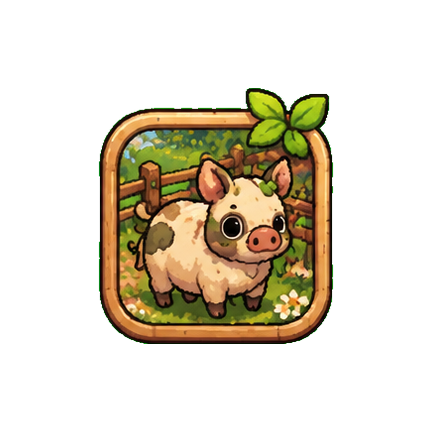
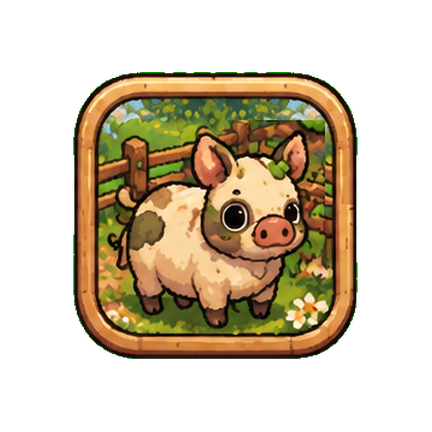
Ícone do app sem a folha: moldura quadrada ocupando o ícone inteiro
- O canto de cima à direita (onde a folha saía para fora) é refeito espelhando o canto esquerdo,
  só na moldura e na faixa de cima (a orelha do porquinho fica)
- Ícone adaptável: a moldura ocupa toda a área visível; no redondo, os cantos são cortados

Claude-Session: https://claude.ai/code/session_01K8smMkd41S9KsmfWVPtWCG

diff --git a/tools/import_app_icon.py b/tools/import_app_icon.py
@@ -20,7 +20,8 @@ from import_hud import key_flood  # noqa: E402
 ROOT = os.path.dirname(os.path.dirname(os.path.abspath(__file__)))
 SRC = os.path.join(ROOT, "assets", "source", "tractor_iso.png")
 OUT = os.path.join(ROOT, "assets", "app_icon")
-ICON = (1262, 12, 1520, 286)      # moldura inteira (com as folhinhas)
+FRAME = (1274, 43, 1510, 282)     # só a moldura (a folha que sai para fora fica de fora)
+CORNER = 110                      # tamanho do canto refeito
 INNER = (1299, 66, 1489, 258)     # a cena dentro da moldura (sem a borda)
 FACE = (1442, 166)                # centro do rosto do porquinho
 BG_COLOR = (104, 150, 66, 255)    # verde do fundo do ícone adaptável
@@ -28,8 +29,19 @@ BG_SIZE = 220                     # lado do recorte do fundo (o miolo visível f
 
 if __name__ == "__main__":
     full = key_flood(Image.open(SRC).convert("RGBA"))
-    icon = full.crop(ICON)
-    icon = icon.crop(icon.getbbox())
+    icon = full.crop(FRAME)
+    # sem a folha do canto de cima à direita: o canto é o espelho do canto de cima à esquerda
+    # (a moldura é simétrica), e a imagem fica quadradinha
+    w = icon.width
+    corner = icon.crop((0, 0, CORNER, CORNER)).transpose(Image.FLIP_LEFT_RIGHT)
+    cp, ip = corner.load(), icon.load()
+    for y in range(CORNER):
+        for x in range(CORNER):
+            X = w - CORNER + x
+            # só a moldura (lado direito e topo) e a faixa de cima da cena, onde a folha entrava;
+            # a orelha do porquinho fica como está
+            if y < 40 or X >= w - 27:
+                ip[X, y] = cp[x, y]
     side = max(icon.size)
     sq = Image.new("RGBA", (side, side), (0, 0, 0, 0))
     sq.alpha_composite(icon, ((side - icon.width) // 2, (side - icon.height) // 2))
@@ -38,7 +50,7 @@ if __name__ == "__main__":
     # ícone adaptável: a imagem INTEIRA (moldura e folhas) no primeiro plano, dentro da área que o Android
     # nunca corta (66 de 108); o fundo tem a cor da grama de trás, para não aparecer borda.
     fg = Image.new("RGBA", (432, 432), (0, 0, 0, 0))
-    inner = round(432 * 64 / 108)
+    inner = round(432 * 72 / 108)     # ocupa a área visível toda (no ícone redondo os cantos são cortados)
     fg.alpha_composite(sq.resize((inner, inner), Image.LANCZOS), ((432 - inner) // 2, (432 - inner) // 2))
     fg.save(os.path.join(OUT, "foreground.png"))
     Image.new("RGBA", (432, 432), BG_COLOR).save(os.path.join(OUT, "background.png"))
